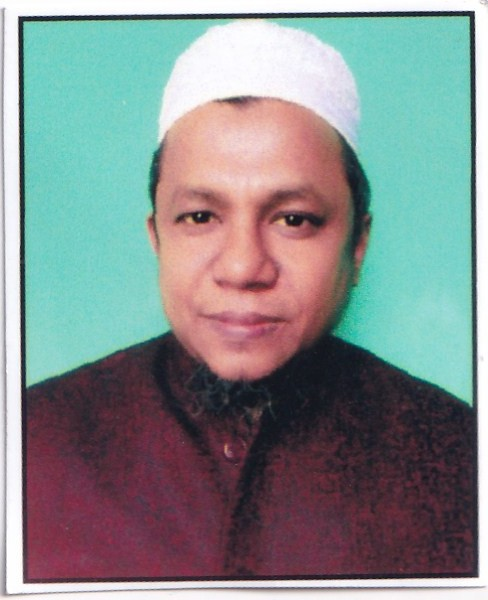
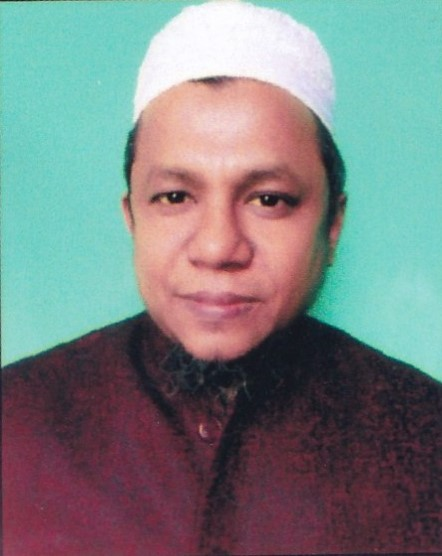
Work on RAC section

diff --git a/src/Body/AllCatagory/TeachersAndStaff/RAC.jsx b/src/Body/AllCatagory/TeachersAndStaff/RAC.jsx
@@ -1,12 +1,13 @@
 
-import ZayedHassan  from '../../../../img/TeacherAndSTaff/Computer/zayed.jpg'
-export default function Mechatronics() {
+import NasirUddin  from '../../../../img/TeacherAndSTaff/Computer/nasirUddin.jpg'
+import SanjayBanik  from '../../../../img/TeacherAndSTaff/Computer/sonjoy_bonik.jpg'
+export default function RAC() {
   return (
     <div className='md:grid gap-5 grid-cols-2'>
                <Teacherdata 
                 name ="মোঃ জায়েদ হাসান"
-                position="ইন্সট্রাক্টর (টেক) মেকাট্রনিক্স"
-                img={ZayedHassan}
+                position="চিফ ইন্সট্রাক্টর (টেক) আর এস সি"
+                img={NasirUddin}
                 phone="01747676595"
                 email="zayedhassanme50@gmail.com"
                 
@@ -14,11 +15,11 @@ export default function Mechatronics() {
             {/* teacher 02 */}
             
             <Teacherdata 
-                name ="মোঃ জায়েদ হাসান"
-                position="ইন্সট্রাক্টর (টেক) মেকাট্রনিক্স"
-                img={ZayedHassan}
-                phone="01747676595"
-                email="zayedhassanme50@gmail.com"
+                name ="সঞ্জয় বানিক"
+                position="ইন্সট্রাক্টর (টেক) আর এস সি "
+                img={SanjayBanik}
+                phone="01711378635"
+                email="bsanjaytpi@gmail.com"
                 
             ></Teacherdata>
                       
@@ -28,8 +29,8 @@ export default function Mechatronics() {
 function Teacherdata({name,position,img,phone,email}){
     return(
         <div className="flex flex-col items-center gap-4 justify-between shadow-slate-500 shadow-lg p-6 mb-5 md:mb-0 rounded-lg">
-            <figure>
-                <img src={img} alt="Computer" className="rounded-full w-48 h-48 border-4 border-black" />
+            <figure className='w-48 h-48 rounded-full overflow-hidden border-4 border-black'>
+                <img src={img} alt="Computer" className=" object-cover w-full" />
             </figure>
             <div className="flex flex-col gap-2 items-center font-semibold text-center">
                 <h2 className="card-title">{name}</h2>

diff --git a/src/main.jsx b/src/main.jsx
@@ -31,6 +31,7 @@ import AllTeachersAndStaff from './Body/AllCatagory/TeachersAndStaff/AllTeachers
 import Computer from './Body/AllCatagory/TeachersAndStaff/Computer.jsx';
 import Food from './Body/AllCatagory/TeachersAndStaff/Food.jsx';
 import Mechatronics from './Body/AllCatagory/TeachersAndStaff/Mechatronics.jsx';
+import RAC from './Body/AllCatagory/TeachersAndStaff/RAC.jsx';
 
 const router = createBrowserRouter([
   {
@@ -120,6 +121,10 @@ const router = createBrowserRouter([
       {
         path:"/Mechatronics",
         element: <Mechatronics></Mechatronics>
+      },
+      {
+        path:"/RAC",
+        element: <RAC></RAC>
       },
       
     ]

diff --git a/src/Body/AllCatagory/TeachersAndStaff/AllTeachersAndStaff.jsx b/src/Body/AllCatagory/TeachersAndStaff/AllTeachersAndStaff.jsx
@@ -57,7 +57,7 @@ export default function AllTeachersAndStaff() {
         </figure>
         <div className="card-body justify-end items-center w-full text-center">
           <h2 className="card-title">Refrigeration and Air Conditioning (RAC)</h2>
-          <Link className=" w-full py-2 hover:text-white bg-green-400 font-semibold rounded-lg hover:bg-green-500" to={"/"}>Teacher</Link>
+          <Link className=" w-full py-2 hover:text-white bg-green-400 font-semibold rounded-lg hover:bg-green-500" to={"/RAC"}>Teacher</Link>
         </div>
       </div>
       {/* NonTech */}
